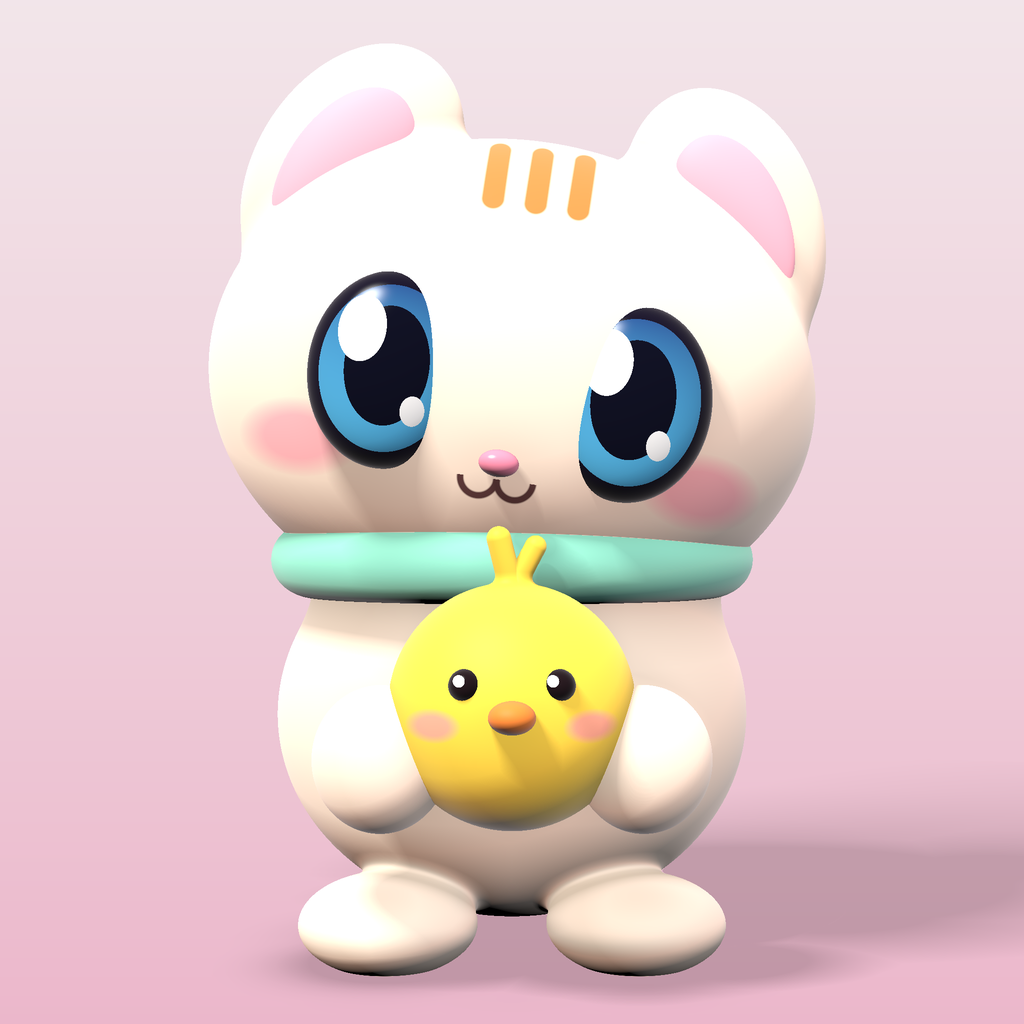
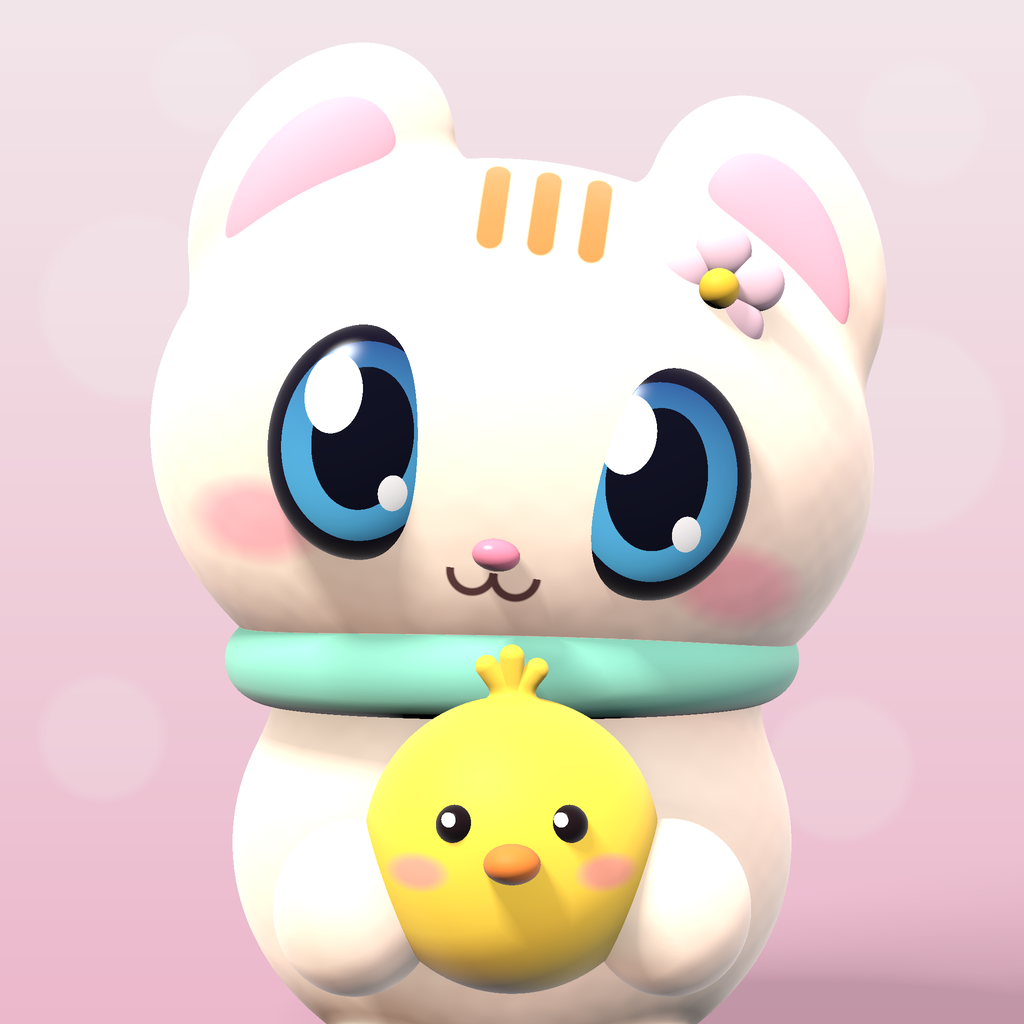
Closer portrait framing, plush sheen, daisy, chick tuft, bokeh

diff --git a/render3d.py b/render3d.py
@@ -1,4 +1,4 @@
-"""Offline 3D renderer for the entry picture (dev tool: numpy + Pillow).
+"""Offline 3D renderer for the entry picture (dev tool: numpy + Pillow).
 
 Raymarches a signed-distance scene of a chubby kitten hugging a baby chick,
 with soft shadows, ambient occlusion and wrap lighting for a soft toy look,
@@ -60,7 +60,7 @@ HEAD_C = v3(0, 0.62, 0)
 TILT = 8.0  # head tilt, degrees
 
 # materials
-M_FUR, M_INEAR, M_EYE, M_NOSE, M_CHICK, M_BEAK, M_SCARF, M_GROUND, M_CEYE = range(9)
+M_FUR, M_INEAR, M_EYE, M_NOSE, M_CHICK, M_BEAK, M_SCARF, M_GROUND, M_CEYE, M_PETAL, M_FCEN = range(11)
 
 
 def head_frame(p):
@@ -86,14 +86,23 @@ def scene(p, want_mat=False):
     paws = np.minimum(ell(p, v3(-0.5, -0.86, -0.92), v3(0.26, 0.28, 0.26)),
                       ell(p, v3(0.5, -0.86, -0.92), v3(0.26, 0.28, 0.26)))
     fur = np.minimum(fur, paws)
+    # a small daisy at the base of the right ear
+    fc = HEAD_C + v3(0.6, 0.6, -0.68)
+    petals = np.full(len(p), 1e9, dtype=F)
+    for i in range(5):
+        a = i * 2 * math.pi / 5 + 0.3
+        petals = np.minimum(petals, ell(hp, fc + v3(0.13 * math.cos(a), 0.13 * math.sin(a), 0.02),
+                                        v3(0.09, 0.09, 0.045)))
+    fcen = sph(hp, fc + v3(0, 0, -0.035), 0.065)
     eyes = np.minimum(ell(hp, HEAD_C + v3(-0.47, -0.06, -0.84), v3(0.31, 0.38, 0.16)),
                       ell(hp, HEAD_C + v3(0.47, -0.06, -0.84), v3(0.31, 0.38, 0.16)))
     nose = ell(hp, HEAD_C + v3(0, -0.36, -0.99), v3(0.075, 0.05, 0.05))
     chick = sph(p, v3(0, -0.66, -0.9), 0.47)
     beak = ell(p, v3(0, -0.66, -1.38), v3(0.085, 0.06, 0.08))
     ceyes = np.minimum(sph(p, v3(-0.17, -0.55, -1.3), 0.06), sph(p, v3(0.17, -0.55, -1.3), 0.06))
-    tuft = np.minimum(capsule(p, v3(0, -0.22, -0.92), v3(-0.05, -0.02, -0.95), 0.045),
-                      capsule(p, v3(0, -0.22, -0.92), v3(0.09, -0.05, -0.93), 0.04))
+    tuft = np.minimum(np.minimum(capsule(p, v3(0, -0.2, -0.92), v3(-0.08, -0.09, -0.95), 0.035),
+                                 capsule(p, v3(0, -0.2, -0.92), v3(0.0, -0.06, -0.95), 0.038)),
+                      capsule(p, v3(0, -0.2, -0.92), v3(0.08, -0.1, -0.94), 0.035))
     chick = smin(chick, tuft, 0.05)
     # scarf: a flattened torus around the neck
     q = p - v3(0, -0.12, 0.05)
@@ -101,7 +110,7 @@ def scene(p, want_mat=False):
     scarf = np.sqrt((rxz - 0.84) ** 2 * 0.8 + (q[:, 1] / 1.0) ** 2) - 0.16
     ground = p[:, 1] + 1.74
 
-    parts = [fur, inner, eyes, nose, chick, beak, scarf, ground, ceyes]
+    parts = [fur, inner, eyes, nose, chick, beak, scarf, ground, ceyes, petals, fcen]
     d = parts[0]
     for x in parts[1:]:
         d = np.minimum(d, x)
@@ -112,8 +121,8 @@ def scene(p, want_mat=False):
 
 
 # ------------------------------------------------------------------ camera
-CAM = v3(0, 0.08, -9.0)
-FOCAL = 4.15  # larger = narrower field of view
+CAM = v3(0, 0.4, -9.0)
+FOCAL = 4.95  # larger = narrower field of view
 ys, xs = np.mgrid[0:N, 0:N].astype(F)
 u = ((xs + 0.5) / N - 0.5) * 2
 v = -((ys + 0.5) / N - 0.5) * 2
@@ -196,6 +205,7 @@ base = np.zeros((len(ph), 3), dtype=F)
 pal = {
     M_FUR: "#FFEAD6", M_INEAR: "#FFB3C6", M_EYE: "#1A2250", M_NOSE: "#FF8FAB", M_CHICK: "#FFD84A",
     M_BEAK: "#FF8A3D", M_SCARF: "#8FE3C8", M_GROUND: "#F7C9D8", M_CEYE: "#20161A",
+    M_PETAL: "#FFD3E2", M_FCEN: "#FFC93C",
 }
 for m, c in pal.items():
     base[mat == m] = srgb_to_lin(hexc(c))
@@ -243,6 +253,22 @@ for s in (-1, 1):
     cl = np.hypot(ph[:, 0] - (s * 0.17 - 0.022), ph[:, 1] - (-0.53)) < 0.022
     base = np.where((cl & (mat == M_CEYE))[:, None], F(1.0), base)
 
+# toe lines on the feet
+for sx in (-0.5, 0.5):
+    for k in (-1, 1):
+        td = np.abs(ph[:, 0] - (sx + k * 0.1))
+        on = (td < 0.014) & (ph[:, 1] > -1.6) & (ph[:, 1] < -1.47) & (ph[:, 2] < -0.6) & (mat == M_FUR)
+        base = np.where(on[:, None], srgb_to_lin(hexc("#8A6460"))[None], base)
+
+# plush fur: a little noise in the normals
+furm = mat == M_FUR
+q = ph * 38.0
+nz = np.stack([np.sin(q[:, 1] * 1.3 + np.sin(q[:, 2] * 0.7)) * np.cos(q[:, 0] * 0.9),
+               np.sin(q[:, 2] * 1.1 + np.sin(q[:, 0] * 0.8)) * np.cos(q[:, 1] * 1.2),
+               np.sin(q[:, 0] * 1.2 + np.sin(q[:, 1] * 0.9)) * np.cos(q[:, 2] * 1.0)], axis=1)
+nrm = np.where(furm[:, None], nrm + 0.025 * nz, nrm)
+nrm /= np.linalg.norm(nrm, axis=1, keepdims=True)
+
 # ------------------------------------------------------------------ shading
 col = np.zeros_like(base)
 wrap = np.where(np.isin(mat, [M_FUR, M_CHICK, M_SCARF, M_INEAR]), 0.45, 0.1).astype(F)
@@ -260,6 +286,10 @@ col = base * (key_col * diff[:, None] + fill_col * fill[:, None] + sky_col * (sk
 sss = (np.clip(wrap - np.abs(ndl), 0, 1) * (wrap > 0.2))[:, None] * np.array([0.35, 0.12, 0.08], dtype=F)
 col += sss * base * 0.9
 col += (rim * ao)[:, None] * np.array([1.0, 0.9, 0.95], dtype=F) * 0.25 * (mat != M_GROUND)[:, None]
+# velvet sheen on the fur
+vdn = np.clip(np.sum(nrm * -rd[idx], axis=1), 0, 1)
+sheen = (1 - vdn) ** 2 * furm
+col += (sheen * ao)[:, None] * np.array([1.0, 0.85, 0.8], dtype=F) * 0.22
 # specular
 hv = KEY - rd[idx]
 hv /= np.linalg.norm(hv, axis=1, keepdims=True)
@@ -275,6 +305,13 @@ gm = mat == M_GROUND
 gsh = (sh * ao)[gm]
 col[gm] = bg[idx[gm]] * (0.62 + 0.38 * gsh[:, None])
 
+# soft bokeh in the background
+px = (u.reshape(-1) + 1) / 2
+py = 1 - vy
+for (bx, by, br, ba) in [(0.13, 0.3, 0.09, 0.22), (0.88, 0.42, 0.1, 0.2), (0.1, 0.72, 0.06, 0.18),
+                         (0.9, 0.12, 0.06, 0.2), (0.82, 0.75, 0.07, 0.16), (0.2, 0.08, 0.05, 0.2)]:
+    dd = np.hypot(px - bx, py - by) - br
+    bg = bg + (np.clip(0.5 - dd / 0.012, 0, 1) * ba)[:, None] * (1.0 - bg)
 img = bg.copy()
 img[idx] = col
 # tone map and gamma
